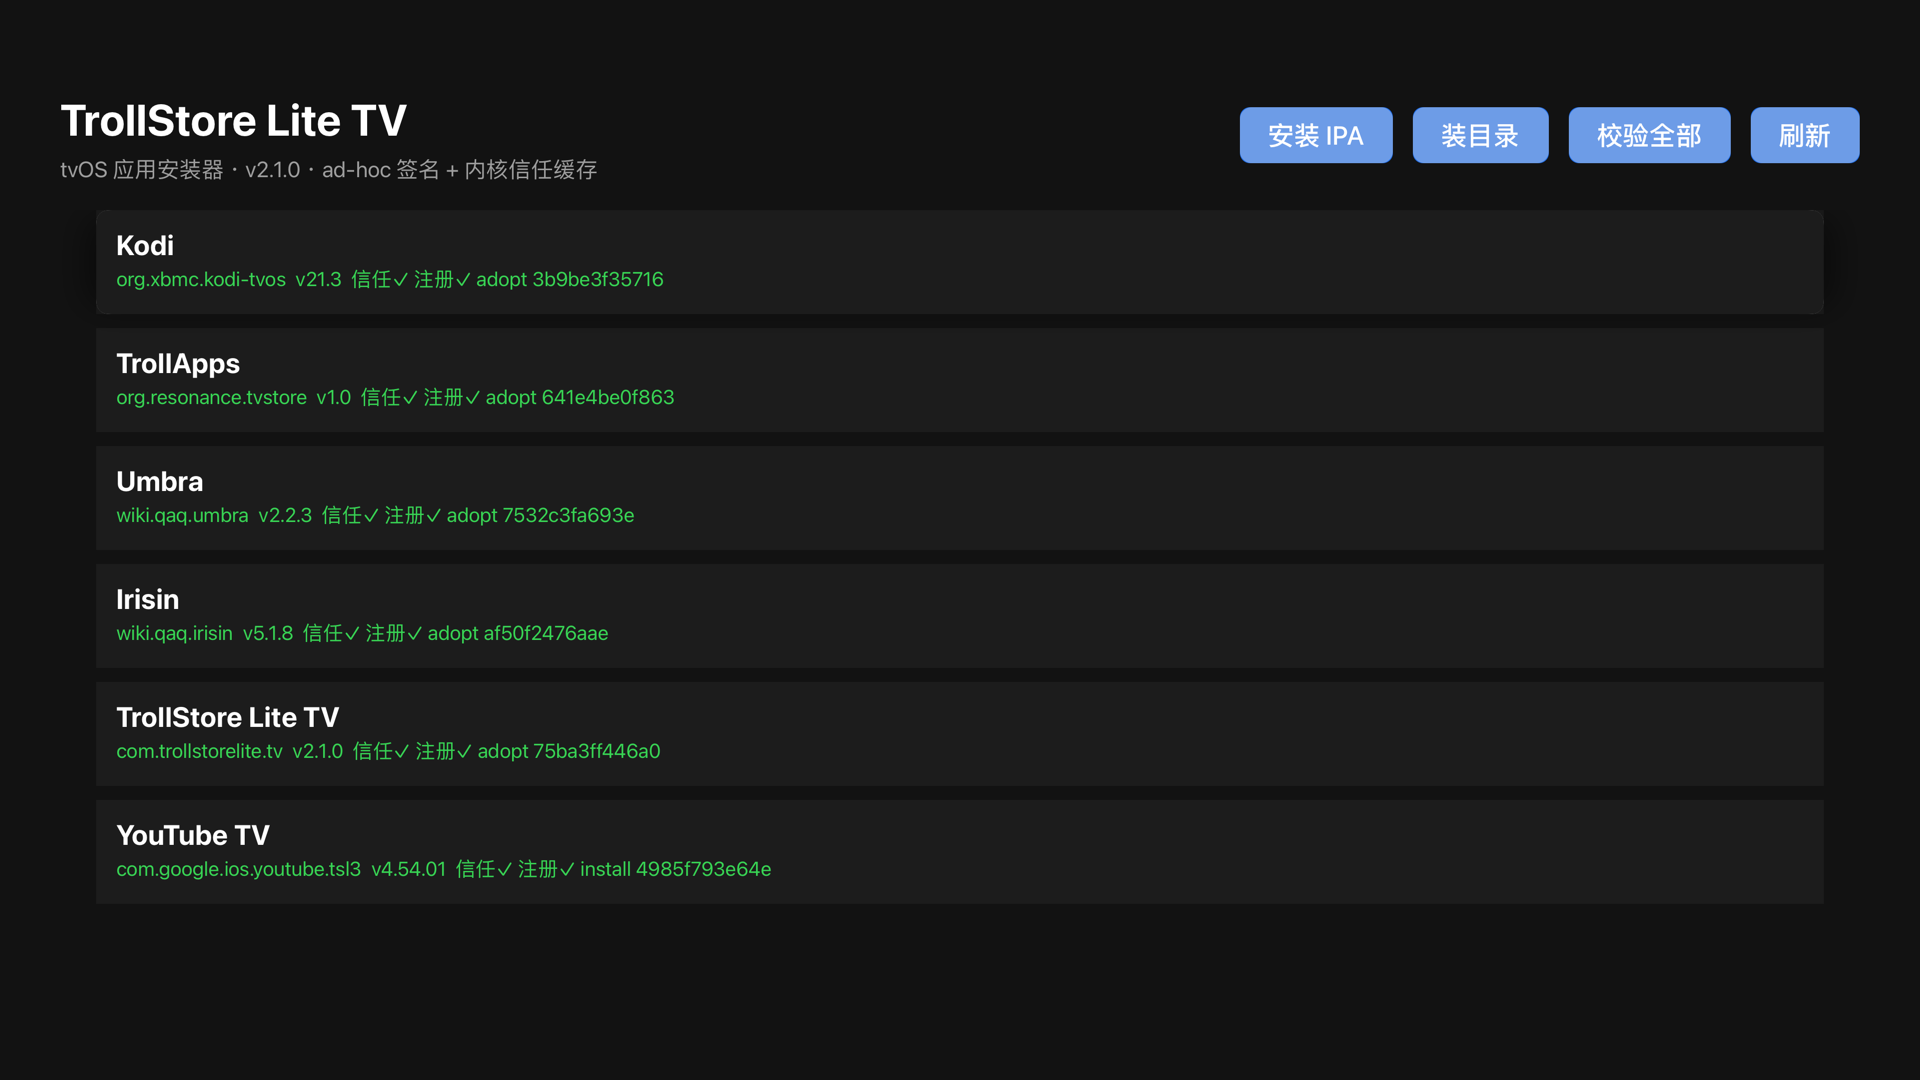
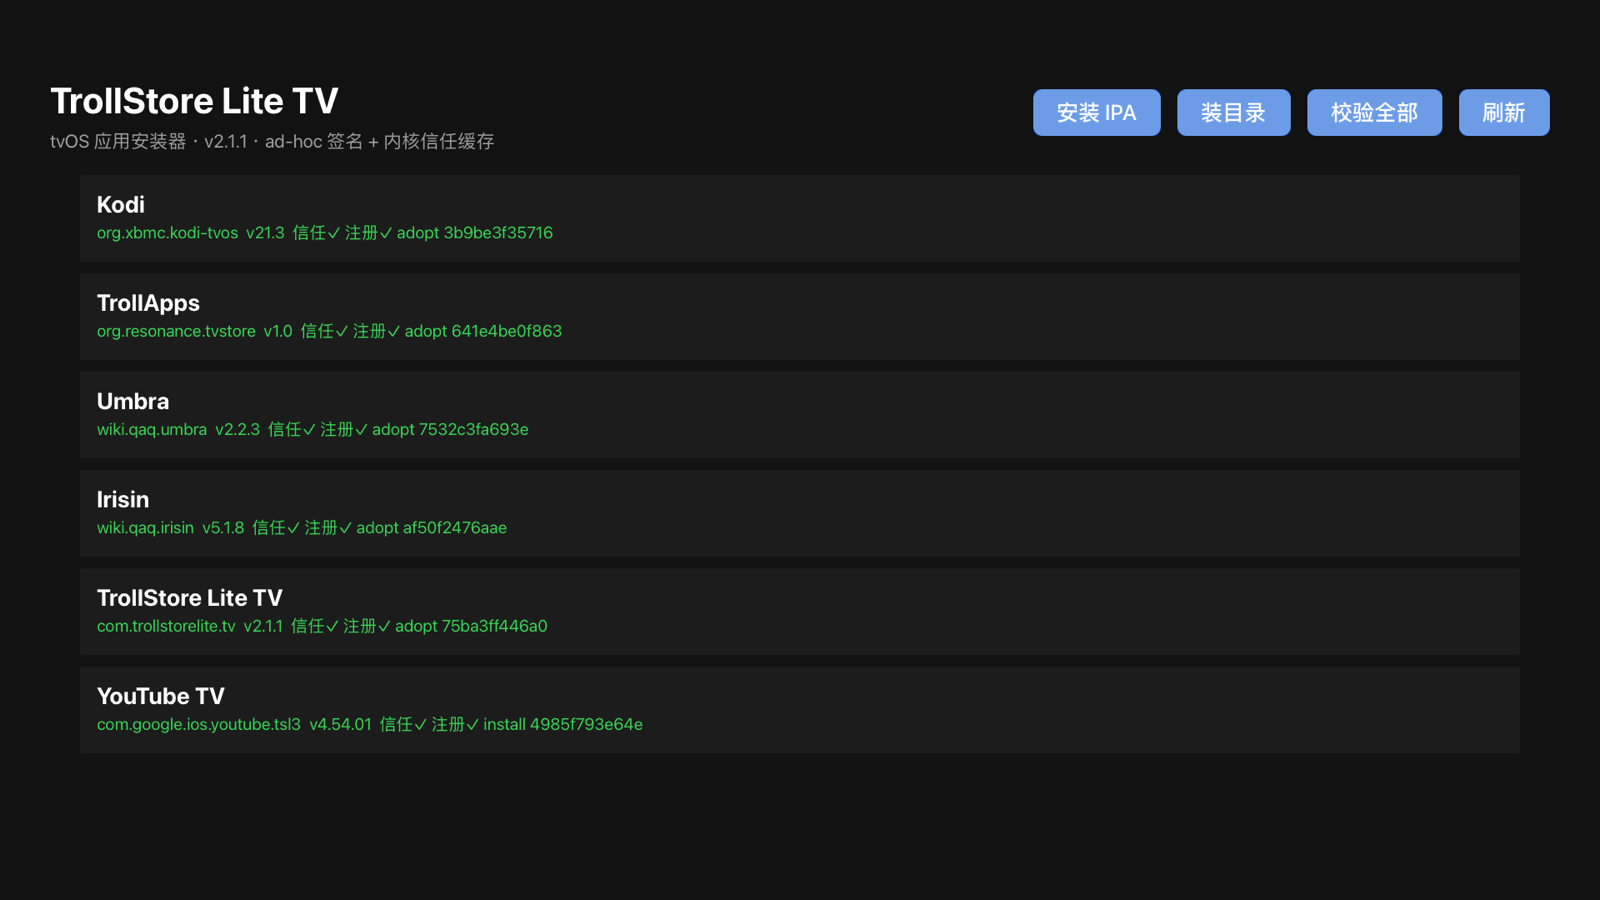
fix: 2.1.1 — 按评审修卸载残留/版本来源/焦点态/网页安全与文档
打包与卸载
- prerm 里主守护进程 label 写错（com.trollstorelite.tvd → .daemon），导致卸不掉
- alias 删除列表与 postinst 创建的不一致，卸载后残留 trollstore-lite-tv / -cli / tsltv-cli
- build-deb.sh 默认 VER 从 1.0.12 改为读仓库 VERSION；包显示名统一
- 补 /usr/bin/tsh（文档里直接写 tsh install ...）
- 签名/信任失败不再被 || return 0 / || true 静默吞掉

界面
- 电视端焦点态：白边 + 轻微放大 + 提亮（此前只差一点背景色，10-foot 场景看不清）
- 网页商店：动态字段全部 HTML 转义；卸载按钮危险色 + 二次确认

CLI
- minOS 判定改为完整比较（17.1 现在会提示）
- 删除 precheck_app 死代码；注释 unix socket → FIFO；状态字段补 origin
- 恢复被误删的 TSLTV_LIB_ONLY 测试守卫

文档
- <you> 占位符、../../releases 死链、TSLTV Lite 旧名、trollstore-lite 别名
- 配图更新为 2.1.1 的真实电视界面与网页商店截图

diff --git a/src/web/main.m b/src/web/main.m
@@ -117,6 +117,16 @@ static NSString *ATDaemon(NSString *command, int *rcOut) {
     return ATDaemonTimeout(command, 180, rcOut);   // 大 ipa 安装可能要几十秒
 }
 
+static NSString *Esc(NSString *s) {
+    if (!s) return @"";
+    NSString *r = [s stringByReplacingOccurrencesOfString:@"&" withString:@"&amp;"];
+    r = [r stringByReplacingOccurrencesOfString:@"<" withString:@"&lt;"];
+    r = [r stringByReplacingOccurrencesOfString:@">" withString:@"&gt;"];
+    r = [r stringByReplacingOccurrencesOfString:@"\"" withString:@"&quot;"];
+    r = [r stringByReplacingOccurrencesOfString:@"'" withString:@"&#39;"];
+    return r;
+}
+
 static NSString *UrlDecode(NSString *s) {
     return [s stringByRemovingPercentEncoding] ?: s;
 }
@@ -239,11 +249,11 @@ static NSString *PageHTML(void) {
             @"<tr><td class=bid>%@</td><td class=dim>%@</td>"
              "<td class=%@>%@</td><td class=%@>%@</td><td class=dim>%@</td>"
              "<td class=mono>%@…</td>"
-             "<td><button onclick=\"act('uninstall','%@')\">卸载</button></td></tr>",
-            f.count > 6 ? f[6] : f[0], f.count > 7 ? f[7] : @"-",
+             "<td><button class=del onclick=\"act('uninstall','%@')\">卸载</button></td></tr>",
+            Esc(f.count > 6 ? f[6] : f[0]), Esc(f.count > 7 ? f[7] : @"-"),
             trusted ? @"ok" : @"bad", trusted ? @"✓" : @"✗",
             reg ? @"ok" : @"bad", reg ? @"✓" : @"✗",
-            f.count > 5 ? f[5] : @"-", short_, f[0]];
+            Esc(f.count > 5 ? f[5] : @"-"), Esc(short_), Esc(f[0])];
     }
 
     // 用 NSMutableString 拼接：之前整页走一个超长 stringWithFormat，
@@ -263,6 +273,7 @@ static NSString *PageHTML(void) {
         ".ok{color:#39d353}.bad{color:#f0883e}"
         "button{background:#1f6feb;border:0;color:#fff;padding:6px 12px;border-radius:7px;"
         "cursor:pointer;font-size:13px}button:hover{filter:brightness(1.15)}"
+        "button.del{background:#8b2c2c}button.del:hover{background:#a83232}"
         "#drop{border:1px dashed #30363d;border-radius:12px;padding:22px;text-align:center;"
         "margin:22px 0;color:#8b8b93}#drop.hot{border-color:#1f6feb;color:#e8e8ea}"
         "#log{white-space:pre-wrap;background:#111114;border:1px solid #1e1e22;border-radius:10px;"
@@ -285,7 +296,9 @@ static NSString *PageHTML(void) {
     [h appendFormat:@"<div id=log>就绪。已安装 %lu 个应用。</div>", (unsigned long)count];
     [h appendString:@"<script>"
         "const log=(t)=>{document.getElementById('log').textContent=t};"
-        "async function act(cmd,arg){log('执行 '+cmd+(arg?' '+arg:'')+' …');"
+        "async function act(cmd,arg){"
+        "if(cmd==='uninstall'&&!confirm('确定卸载 '+(arg||'')+' ?'))return;"
+        "log('执行 '+cmd+(arg?' '+arg:'')+' …');"
         "const r=await fetch('/api/'+cmd+(arg?'?bid='+encodeURIComponent(arg):'')+'',{method:'POST'});"
         "log(await r.text());setTimeout(()=>location.reload(),1200)}"
         "async function selfUpd(){"

diff --git a/src/gui/main.m b/src/gui/main.m
@@ -128,6 +128,41 @@ static NSArray<ATApp *> *ATProbe(void) {
 
 #pragma mark - 主列表
 
+// 电视上必须有非常明确的焦点态：白边 + 轻微放大 + 提亮
+@interface ATFocusCell : UITableViewCell
+@property (nonatomic, strong) UIView *ring;
+@end
+
+@implementation ATFocusCell
+- (instancetype)initWithStyle:(UITableViewCellStyle)style reuseIdentifier:(NSString *)reuse {
+    if ((self = [super initWithStyle:style reuseIdentifier:reuse])) {
+        self.focusStyle = UITableViewCellFocusStyleCustom;
+        _ring = [[UIView alloc] initWithFrame:CGRectZero];
+        _ring.backgroundColor = [UIColor clearColor];
+        _ring.layer.borderColor = [UIColor whiteColor].CGColor;
+        _ring.layer.borderWidth = 3;
+        _ring.layer.cornerRadius = 10;
+        _ring.hidden = YES;
+        _ring.userInteractionEnabled = NO;
+        [self.contentView addSubview:_ring];
+    }
+    return self;
+}
+- (void)layoutSubviews {
+    [super layoutSubviews];
+    self.ring.frame = CGRectInset(self.bounds, 3, 3);
+}
+- (void)didUpdateFocusInContext:(UIFocusUpdateContext *)ctx withAnimationCoordinator:(UIFocusAnimationCoordinator *)coord {
+    [super didUpdateFocusInContext:ctx withAnimationCoordinator:coord];
+    BOOL focused = (ctx.nextFocusedView == self);
+    [coord addCoordinatedAnimations:^{
+        self.ring.hidden = !focused;
+        self.contentView.backgroundColor = [UIColor colorWithWhite:(focused ? 0.20 : 0.11) alpha:1.0];
+        self.transform = focused ? CGAffineTransformMakeScale(1.02, 1.02) : CGAffineTransformIdentity;
+    } completion:nil];
+}
+@end
+
 @interface ATListController : UITableViewController
 @property (nonatomic, strong) NSArray<ATApp *> *apps;
 @property (nonatomic, assign) BOOL didSnapshot;
@@ -327,10 +362,10 @@ static NSArray<ATApp *> *ATProbe(void) {
 }
 
 - (UITableViewCell *)tableView:(UITableView *)tv cellForRowAtIndexPath:(NSIndexPath *)ip {
-    UITableViewCell *cell = [tv dequeueReusableCellWithIdentifier:@"c"];
+    ATFocusCell *cell = [tv dequeueReusableCellWithIdentifier:@"c"];
     if (!cell) {
-        cell = [[UITableViewCell alloc] initWithStyle:UITableViewCellStyleSubtitle
-                                      reuseIdentifier:@"c"];
+        cell = [[ATFocusCell alloc] initWithStyle:UITableViewCellStyleSubtitle
+                                  reuseIdentifier:@"c"];
     }
     ATApp *a = self.apps[ip.row];
     cell.backgroundColor = [UIColor colorWithWhite:0.11 alpha:1.0];

diff --git a/CHANGELOG.md b/CHANGELOG.md
@@ -1,5 +1,22 @@
 # Changelog
 
+## 2.1.1 — 2026-11-24
+
+**按评审意见修的一批真问题**
+
+- **卸载不干净**：`prerm` 里的主守护进程 label 写成 `com.trollstorelite.tvd`（实际是
+  `.daemon`），停不掉；alias 删除列表与 postinst 创建的不一致，卸载后残留
+  `/usr/bin/trollstore-lite-tv`、`-cli`、`tsltv-cli`
+- **版本来源不唯一**：远程打包脚本默认 `VER=1.0.12`，现在改为读仓库 `VERSION`
+- 包显示名两条打包路径不一致（`TrollStoreLiteTV Lite` vs `TrollStore Lite TV`）→ 统一
+- **`tsh` 不在 PATH**：文档里写 `tsh install ...` 却只装了 `/usr/libexec/tsltv/tsh` → 补 `/usr/bin/tsh`
+- **签名/信任失败被静默吞掉**（`|| return 0` / `|| true`）→ 改为报错并失败
+- 电视界面：焦点态加强（白边 + 轻微放大 + 提亮），此前只差一点点背景色
+- 网页商店：应用名/版本/bundle id 全部 HTML 转义（防注入），卸载按钮改危险色 + 二次确认
+- CLI：`minOS` 判定改为完整比较（17.1 现在会提示）；删掉 `precheck_app` 里的死代码；
+  注释从 "unix socket" 改为 FIFO；状态文件字段说明补上 `origin`
+- 文档：`<you>` 占位符、`../../releases` 死链、`TSLTV Lite` 旧名、`trollstore-lite` 别名全部修正
+
 ## 2.1.0 — 2026-11-23
 
 **命名统一 / 主屏图标 / 网页商店修复 / 双语文档**

diff --git a/docs/zh/INSTALL.md b/docs/zh/INSTALL.md
@@ -27,12 +27,12 @@ ssh mobile@<device-ip> 'ls -d /var/containers/Bundle/Application/.jbroot-* && jb
 
 ---
 
-## 1. 安装 TSLTV Lite
+## 1. 安装 TrollStore Lite TV
 
 ### 方式 A：Mac 一条命令（推荐）
 
 ```sh
-git clone https://github.com/<you>/trollstore-lite-tv.git
+git clone https://github.com/comicchang/trollstore-lite-tv.git
 cd trollstore-lite-tv
 ATV_PASS='<设备sudo密码>' ./scripts/install.sh 192.168.1.23
 ```
@@ -148,7 +148,7 @@ sudo tsltv registration          # 每个应用注册成 System 还是 User
 sudo tsltv version               # 工具版本
 ```
 
-别名：`trollstore-lite` / `tsl` 等价于 `tsltv`。
+别名：`trollstore-lite-tv` / `tsl` 等价于 `tsltv`。
 
 TrollStore 风格调用（给熟悉上游的人）：
 

diff --git a/README.en.md b/README.en.md
@@ -82,7 +82,7 @@ Detailed install, verification, uninstall and troubleshooting: [docs/en/INSTALL.
 
 ## What's in a Release
 
-Every [Release](releases) ships two artifacts:
+Every [release](https://github.com/comicchang/trollstore-lite-tv/releases) ships two artifacts:
 
 | File | Purpose |
 |---|---|
